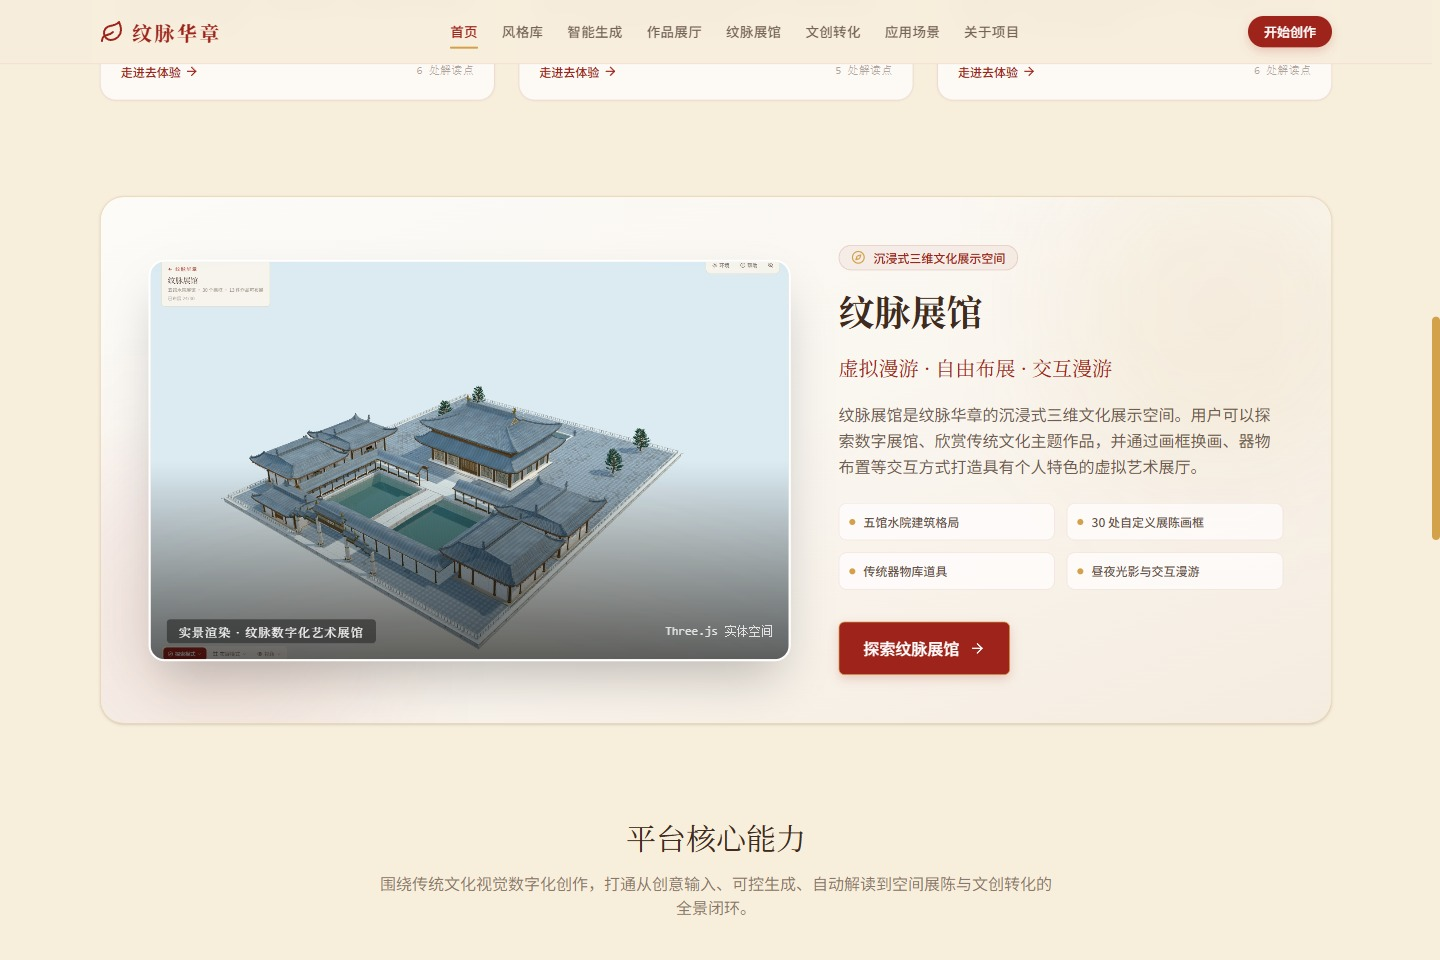
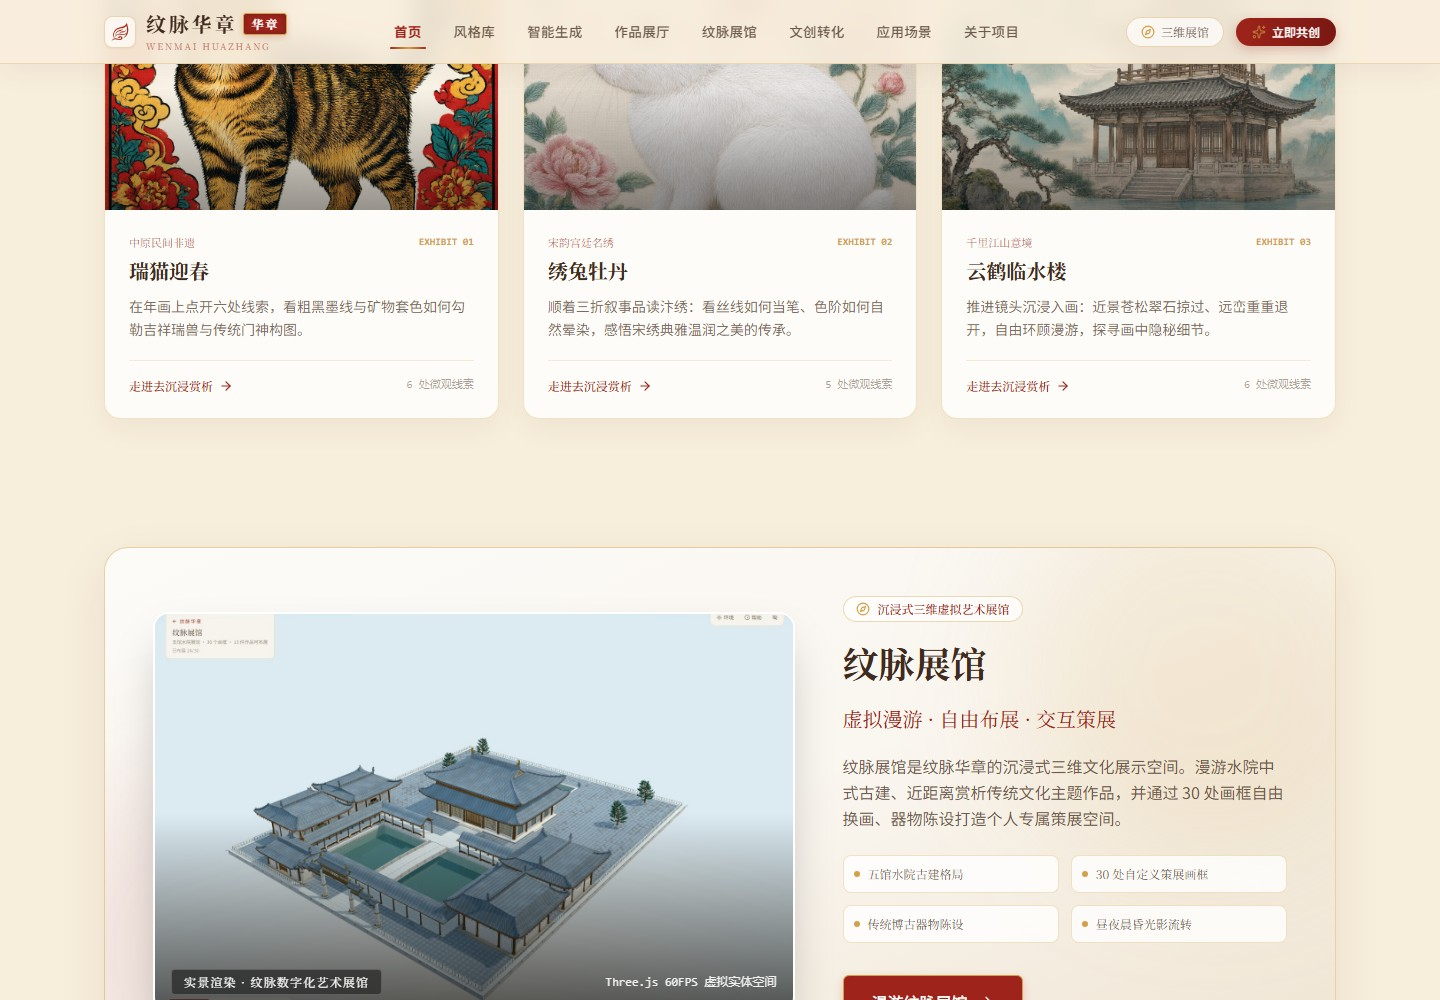
docs(ui): refresh authentic UI screenshots across all pages and update README with VNext upgrade notes

diff --git a/scripts/capture_vnext_screenshots.py b/scripts/capture_vnext_screenshots.py
@@ -1,0 +1,91 @@
+"""
+Capture authentic, high-definition screenshots of Wenmai Huazhang VNext UI
+using Playwright against the live local development server at http://127.0.0.1:5173.
+"""
+import sys
+import time
+from pathlib import Path
+from playwright.sync_api import sync_playwright
+
+ROOT = Path(__file__).resolve().parents[1]
+OUT_DIR = ROOT / 'docs' / 'screenshots' / 'current'
+OUT_DIR.mkdir(parents=True, exist_ok=True)
+
+EDGE_PATH = r'C:\Program Files (x86)\Microsoft\Edge\Application\msedge.exe'
+BASE_URL = 'http://127.0.0.1:5173'
+
+def run():
+    print(f"Connecting to live server at {BASE_URL}...")
+    with sync_playwright() as pw:
+        browser = pw.chromium.launch(
+            executable_path=EDGE_PATH,
+            headless=True,
+            args=[
+                '--no-proxy-server',
+                '--disable-gpu',
+                '--no-first-run',
+                '--disable-sync',
+                '--disable-background-timer-throttling',
+                '--disable-renderer-backgrounding',
+            ]
+        )
+        context = browser.new_context(
+            viewport={'width': 1440, 'height': 1000},
+            device_scale_factor=1,
+        )
+        page = context.new_page()
+        page.set_default_timeout(30000)
+
+        # 1. 首页 Home
+        print("Capturing home-overview.jpg...")
+        page.goto(f"{BASE_URL}/", wait_until='domcontentloaded')
+        page.wait_for_timeout(2000)
+        page.screenshot(path=str(OUT_DIR / 'home-overview.jpg'), quality=90)
+
+        # 2. 首页展馆区域 home-gallery.jpg
+        print("Capturing home-gallery.jpg...")
+        page.evaluate('window.scrollTo(0, 1150)')
+        page.wait_for_timeout(1000)
+        page.screenshot(path=str(OUT_DIR / 'home-gallery.jpg'), quality=90)
+
+        # 3. 风格库 StyleLibrary
+        print("Capturing culture-styles.jpg...")
+        page.goto(f"{BASE_URL}/styles", wait_until='domcontentloaded')
+        page.wait_for_timeout(1500)
+        page.screenshot(path=str(OUT_DIR / 'culture-styles.jpg'), quality=90)
+
+        # 4. 智能生成工作台 AICreator
+        print("Capturing creation-workspace.jpg...")
+        page.goto(f"{BASE_URL}/creator", wait_until='domcontentloaded')
+        page.wait_for_timeout(1500)
+        page.screenshot(path=str(OUT_DIR / 'creation-workspace.jpg'), quality=90)
+
+        # 5. 作品展厅 Gallery
+        print("Capturing gallery.jpg...")
+        page.goto(f"{BASE_URL}/gallery", wait_until='domcontentloaded')
+        page.wait_for_timeout(1500)
+        page.screenshot(path=str(OUT_DIR / 'gallery.jpg'), quality=90)
+
+        # 6. 文创衍生效果工坊 ProductStudio
+        print("Capturing creative-products.jpg...")
+        page.goto(f"{BASE_URL}/products", wait_until='domcontentloaded')
+        page.wait_for_timeout(1500)
+        page.screenshot(path=str(OUT_DIR / 'creative-products.jpg'), quality=90)
+
+        # 7. 多维应用场景 Scenarios
+        print("Capturing scenarios.jpg...")
+        page.goto(f"{BASE_URL}/scenarios", wait_until='domcontentloaded')
+        page.wait_for_timeout(1500)
+        page.screenshot(path=str(OUT_DIR / 'scenarios.jpg'), quality=90)
+
+        # 8. 关于项目 About
+        print("Capturing about.jpg...")
+        page.goto(f"{BASE_URL}/about", wait_until='domcontentloaded')
+        page.wait_for_timeout(1500)
+        page.screenshot(path=str(OUT_DIR / 'about.jpg'), quality=90)
+
+        browser.close()
+        print("All target screenshots captured successfully!")
+
+if __name__ == '__main__':
+    run()

diff --git a/docs/screenshots/current/README.md b/docs/screenshots/current/README.md
@@ -1,6 +1,6 @@
-# 纹脉华章 · 最新正式界面截图与视觉说明
+# 纹脉华章 · 最新正式界面截图与视觉说明 (VNext 升级版)
 
-全部采集自实际运行的 React 19 / Vite / Tailwind CSS v4 / Three.js 真实项目，采用 Playwright 无头浏览器环境于 1440×1000 标准视口无损截取。真实反映全站最新 UI 动效、专属品牌 Logo 与重构后的多维应用场景交互。
+全部采集自实际运行的 React 19 / Vite 6 / Tailwind CSS v4 / Three.js 真实项目，采用 Playwright 无头浏览器环境于 1440×1000 标准视口无损截取。真实反映全站 VNext 最新东方数字艺术视觉系统、浮动玉屏导航、印鉴风格条幅与文房工作台质感。
 
 ---
 
@@ -8,24 +8,24 @@
 
 | 截图文件 | 对应路由 / 页面模块 | 实际像素 | 界面功能与视觉设计说明 |
 |---|---|---|---|
-| [home-overview.jpg](home-overview.jpg) | `/`（首页全貌） | 1440×1000 | **全站主视觉与全新品牌识别**：顶栏左上角已完全更新为专属朱红祥云叶脉 Logo；展示「东方意境 · 当代新生」主导语、五大流派微缩预览与三大核心入口。 |
-| [scenarios.jpg](scenarios.jpg) | `/scenarios`（多维应用场景） | 1440×1000 | **重构版多维应用场景页**：默认展示场景 01「数字环幕沉浸空间」曲面大屏艺术映射；配备顶部场景快捷导览条、3D 鼠标透视倾侧卡片与结构化微徽章。 |
-| [culture-card.jpg](culture-card.jpg) | `/gallery`（纯净文化说明卡） | 1080×1440 | **纯净版 CultureCard 说明卡**：告别工作台全景截图，纯净呈现朱仙镇木版年画文化解读卡，涵盖版刻设色、矿物颜料谱系、工艺要点与古籍考证印章。 |
-| [about.jpg](about.jpg) | `/about`（六大工程能力） | 1440×1000 | **关于项目与工程链路**：展示 Qwen3-VL 本地多模态视觉理解核心能力，以宣纸装裱台优雅展示纯净文化说明卡，支持多流派说明卡自由切换。 |
-| [interactive-artwork.jpg](interactive-artwork.jpg) | `/experience/zhuxianzhen-ruimao` | 1440×1000 | **画中有话 · 微观热点探索**：多维深度赏析界面，支持在年画原作上点击微观脉冲热点（额顶云冠、金鲤墨线、矿物设色），即时滑出文化解读面板。 |
-| [story-reading.jpg](story-reading.jpg) | `/story/bianxiu-xiutu` | 1440×1000 | **一图一境 · 三折叙事长卷**：开封汴绣三折图文阅读长卷，随横向手势平滑延展，步步深入领略非遗针法传承与意境衍生。 |
-| [painting-world.jpg](painting-world.jpg) | `/wander/songhua-yunhe` | 1440×1000 | **画境漫游 · 2.5D 深度视差**：宋画青绿山水深度推镜漫游，基于单图深度估计与自定义着色器，视角微移即可呈现山峦与孤舟的分层立体入画感。 |
-| [creation-workspace.jpg](creation-workspace.jpg) | `/creator`（智能生成工坊） | 1301×2088 | **多模态可控创作工作台**：支持创作主题、参考图与风格强度细粒度调控，实时记录生成哈希证据链与元数据落盘。 |
-| [creative-products.jpg](creative-products.jpg) | `/products`（文创转化工坊） | 1301×2177 | **文博生活美学实物打样**：预设 8 类文创载体物理比例与材质贴图，智能排版伴手礼盒、青花杯垫与真丝扇面并导出 1600×1200 高清打样图。 |
-| [gallery.jpg](gallery.jpg) | `/gallery`（作品展厅） | 1440×1000 | **作品展厅与资产归档**：持久化 Case Store 本地存储，展示已入库的名作画框与自动生成的文化互动入口。 |
-| [heritage-gallery.jpg](heritage-gallery.jpg) | `/heritage-gallery`（展馆外观） | 1440×960 | **三维水院展馆昼光全景**：Three.js 驱动的双层中式大木梁架水院虚拟建筑，水面清波倒影与长廊立柱。 |
-| [heritage-dusk.jpg](heritage-dusk.jpg) | `/heritage-gallery`（展馆暮色） | 1440×960 | **三维水院展馆暮色夜景**：暮色蓝调光影流转，廊间琥珀灯火亮起，营造静谧深邃的东方文化殿堂氛围。 |
-| [heritage-interior.jpg](heritage-interior.jpg) | `/heritage-gallery`（一层展厅） | 1440×960 | **虚拟展厅室内布展空间**：第一/第三人称自由穿行，支持 30 处自定义画框一键陈列与器物展台交互。 |
-| [culture-styles.jpg](culture-styles.jpg) | `/styles`（风格库） | 1440×1000 | **五大传统文化视觉风格库**：深度解构朱仙镇年画、汴绣、宋画、青花瓷与剪纸的美学特征与历史文献。 |
+| [home-overview.jpg](home-overview.jpg) | `/`（首页全貌） | 1440×1000 | **VNext 典雅书卷与现代展陈**：巨幅书法主标与东方题跋字阶，右侧五大风格立体视差层叠，全新浮动玉屏导航栏与印鉴珍赏条幅。 |
+| [home-gallery.jpg](home-gallery.jpg) | `/`（首页展馆区块） | 1440×1000 | **纹脉展馆沉浸导览板块**：大幅实景渲染建筑广角大图、五馆水院格局、30 处自定义画框换画与器物布展特色介绍。 |
+| [culture-styles.jpg](culture-styles.jpg) | `/styles`（风格库） | 1440×1000 | **五大传统文化视觉风格库**：Refero 灵感画廊美学卡片，外露设色谱系圆点、门类签条筛选栏与一键创作入口。 |
+| [creation-workspace.jpg](creation-workspace.jpg) | `/creator`（创作工坊） | 1440×1000 | **文房四宝智能创作工作台**：题墨案输入、古风画样上传、风格先验参数调节与象牙宣纸装裱展陈画框。 |
+| [gallery.jpg](gallery.jpg) | `/gallery`（作品展厅） | 1440×1000 | **作品展厅与资产归档**：白盒展陈美学排版，成图对比、三种多维互动入口、自动入展状态与文案考证。 |
+| [creative-products.jpg](creative-products.jpg) | `/products`（文创工坊） | 1440×1000 | **文博生活美学实物打样**：8 款文创载体物理比例光影映射，伴手礼盒、青花杯垫、真丝团扇与一键 1600×1200 PNG 导出。 |
+| [scenarios.jpg](scenarios.jpg) | `/scenarios`（多维应用场景） | 1440×1000 | **多维应用场景长卷**：杂志化图文交错排版，Scrolltide 级场景快速导览条与 3D 鼠标透视倾侧互动沙盒。 |
+| [about.jpg](about.jpg) | `/about`（关于项目） | 1440×1000 | **技术架构与定位**：六大核心技术体系、真实多模态推理证据链、宣纸装裱文化卡展陈与古风印章落款。 |
+| [culture-card.jpg](culture-card.jpg) | `/gallery`（文化说明卡） | 1080×1440 | **纯净版 CultureCard 说明卡**：木版年画文化解读卡，涵盖版刻设色、矿物颜料谱系、工艺要点与古籍考证印章。 |
+| [interactive-artwork.jpg](interactive-artwork.jpg) | `/experience/zhuxianzhen-ruimao` | 1440×1000 | **画中有话 · 微观热点探索**：年画原作微观脉冲热点（额顶云冠、金鲤墨线、矿物设色），即时滑出文化解读面板。 |
+| [story-reading.jpg](story-reading.jpg) | `/story/bianxiu-xiutu` | 1440×1000 | **一图一境 · 三折叙事长卷**：开封汴绣三折图文阅读长卷，随横向手势平滑延展，步步深入领略非遗针法传承。 |
+| [painting-world.jpg](painting-world.jpg) | `/wander/songhua-yunhe` | 1440×1000 | **画境漫游 · 2.5D 深度视差**：宋画青绿山水深度推镜漫游，单图深度估计与分层立体入画感。 |
+| [heritage-gallery.jpg](heritage-gallery.jpg) | `/heritage-gallery`（展馆外观） | 1440×960 | **三维水院展馆昼光全景**：Three.js 驱动的双层中式大木梁架水院虚拟建筑，配科技国风玉屏 HUD 交互层。 |
+| [heritage-diy.jpg](heritage-diy.jpg) | `/heritage-diy`（换画布展） | 1440×960 | **三维展馆换画与器物布展**：30 处自定义画框换画、博古架传统器物布置与漫游交互。 |
 
 ---
 
 ## 📌 真实性与采集规范
-- 截图均来自本机实际运行端口的真实渲染；
+- 截图均来自本机 `127.0.0.1:5173` 实际运行端口的真实渲染；
 - 绝无使用静态重绘或外部无关图片虚构界面；
 - 统一保留了真实 UI 的字体渲染、高光阴影与材质光影。

diff --git a/README.md b/README.md
@@ -6,6 +6,8 @@
 
 从五种传统视觉风格出发，将参考图与主题转为 AI 作品，再连接文化赏析、互动叙事、三维布展和文创预览。
 
+> ✨ **VNext 全站视觉体验升级**：构建兼具宋明风雅气质与现代数字艺术平台高级感的视觉系统。升级浮动玉屏导航栏、卷尾跋文页脚、典雅书卷 Hero 构图、五大风格印鉴珍赏条幅、文房智能创作工作台与三维展馆科技国风 HUD，保持全流程业务逻辑与技术架构零回归。
+
 [在线体验](https://3331083641-prog.github.io/wenmai-huazhang/#/) · [功能展示](#核心功能与真实界面) · [快速开始](#安装与运行) · [技术架构](#技术架构) · [项目源码](https://github.com/3331083641-prog/wenmai-huazhang)
 
 </div>
